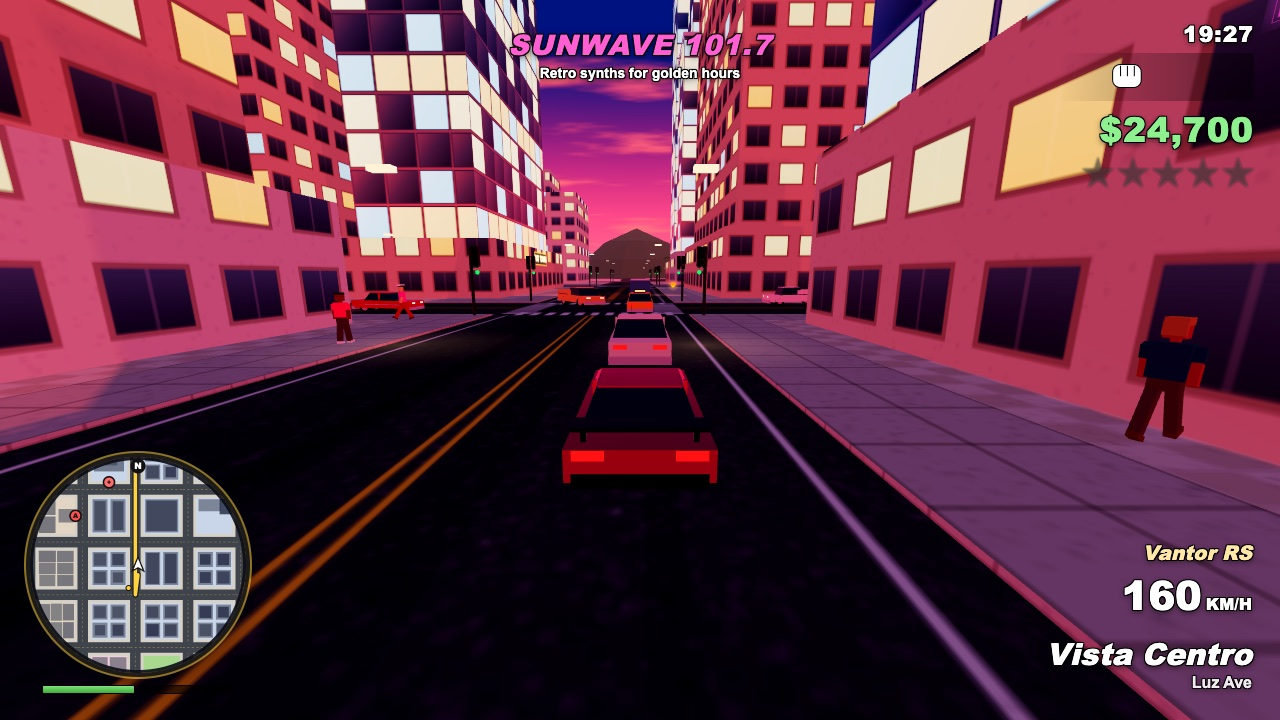
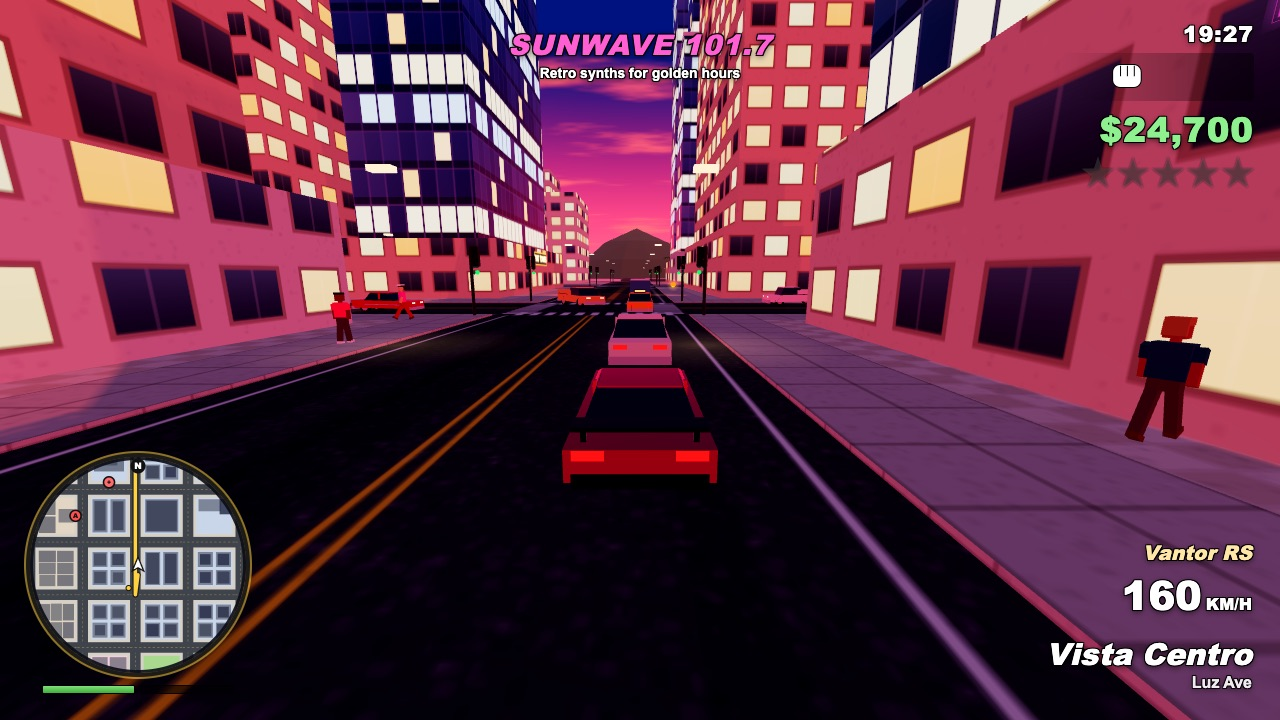
Polish Solara Bay visuals, audio test coverage and screenshots
Curtain-wall glass towers with lit floors at night, boats on the bay,
softer police searchlight, cheaper character shadows and distance culling,
HUD markup moved into ui/layout.js, the side-job/shop interaction fix,
an audio step in the self-test, and re-shot screenshots.

diff --git a/game/src/world/boats.js b/game/src/world/boats.js
@@ -1,0 +1,72 @@
+// Boats on the water: yachts, sailboats and a ferry moored or drifting around the pier, the
+// inlet and the harbour, bobbing and rolling on the swell.
+import * as THREE from 'three';
+import { WATER_LEVEL } from '../config.js';
+import { GeometryBuilder } from '../core/geometryBuilder.js';
+
+function yacht(b, hullColor, stripe) {
+  b.taperedBox(0, -0.6, 0, 3.2, 1.6, 11, 2.6, 9.5, hullColor, 0.6);
+  b.taperedBox(0, -0.6, 6.2, 3.2, 1.6, 1.6, 0.3, 0.3, hullColor, -0.2);
+  b.box(0, 0.4, 0, 3.25, 0.25, 10, stripe);
+  b.taperedBox(0, 1.0, -1, 2.4, 1.2, 4.5, 1.9, 3.6, '#f6f6f2');
+  b.box(0, 1.5, 0.9, 2.3, 0.5, 0.2, '#22313f');
+}
+
+function sailboat(b, hullColor, sailColor) {
+  b.taperedBox(0, -0.5, 0, 2.2, 1.2, 7, 1.8, 6, hullColor, 0.3);
+  b.taperedBox(0, -0.5, 3.9, 2.2, 1.2, 1, 0.2, 0.2, hullColor);
+  b.beam([0, 0.6, 0.6], [0, 11, 0.6], 0.09, 5, '#dddddd');
+  const rgb = b.setColor(sailColor);
+  b.tri([0.02, 1.2, 0.8], [0.02, 1.2, -2.8], [0.02, 10.6, 0.7], [0, 0], [1, 0], [0, 1], rgb);
+  b.tri([-0.02, 1.2, -2.8], [-0.02, 1.2, 0.8], [-0.02, 10.6, 0.7], [0, 0], [1, 0], [0, 1], rgb);
+  b.tri([0, 1.2, 1.0], [0, 9.0, 0.7], [0, 1.2, 3.6], [0, 0], [1, 0], [0, 1], rgb);
+  b.tri([0, 9.0, 0.7], [0, 1.2, 1.0], [0, 1.2, 3.6], [0, 0], [1, 0], [0, 1], rgb);
+}
+
+function ferry(b) {
+  b.taperedBox(0, -1.2, 0, 7, 3, 26, 6, 22, '#f2f2f2', 1);
+  b.box(0, 1.8, 0, 7.05, 0.5, 22, '#1f4e79');
+  b.box(0, 2.3, -2, 6, 2.6, 14, '#ffffff');
+  b.box(0, 3.4, -2, 6.05, 0.8, 13.6, '#22313f');
+  b.box(0, 4.9, 2, 3, 2.2, 3, '#ffcc33');
+}
+
+const FLEET = [
+  { kind: 'yacht', x: 420, z: -40, h: 0.3, a: '#ffffff', b: '#1f4e79' },
+  { kind: 'sail', x: 470, z: 110, h: 2.2, a: '#ffffff', b: '#fff6e6' },
+  { kind: 'sail', x: 520, z: -130, h: 1.1, a: '#264653', b: '#ffffff' },
+  { kind: 'yacht', x: 395, z: 85, h: 1.7, a: '#f4f1ea', b: '#c0392b' },
+  { kind: 'sail', x: 405, z: 190, h: -0.6, a: '#ffffff', b: '#ffb347' },
+  { kind: 'ferry', x: 560, z: 20, h: 1.4 },
+  { kind: 'yacht', x: -120, z: -245, h: 1.6, a: '#ffffff', b: '#2a9d8f' },
+  { kind: 'sail', x: 230, z: -248, h: -1.4, a: '#ffffff', b: '#ffffff' },
+  { kind: 'sail', x: -260, z: -238, h: 0.4, a: '#c0392b', b: '#ffffff' },
+  { kind: 'yacht', x: 120, z: 430, h: -1.2, a: '#ffffff', b: '#1f3550' },
+];
+
+export function createBoats(scene) {
+  const material = new THREE.MeshStandardMaterial({ vertexColors: true, roughness: 0.5, metalness: 0.1, side: THREE.DoubleSide });
+  const boats = FLEET.map((f, i) => {
+    const b = new GeometryBuilder();
+    if (f.kind === 'yacht') yacht(b, f.a, f.b);
+    else if (f.kind === 'sail') sailboat(b, f.a, f.b);
+    else ferry(b);
+    const mesh = new THREE.Mesh(b.build(), material);
+    mesh.castShadow = true;
+    mesh.position.set(f.x, WATER_LEVEL, f.z);
+    mesh.rotation.y = f.h;
+    scene.add(mesh);
+    return { mesh, phase: i * 1.7, drift: f.kind === 'ferry' ? 0 : 0.4, f };
+  });
+  return {
+    update(time) {
+      for (const boat of boats) {
+        const t = time + boat.phase;
+        boat.mesh.position.y = WATER_LEVEL + Math.sin(t * 0.9) * 0.18;
+        boat.mesh.rotation.z = Math.sin(t * 0.7) * 0.05;
+        boat.mesh.rotation.x = Math.sin(t * 0.55) * 0.03;
+        boat.mesh.position.x = boat.f.x + Math.sin(t * 0.05) * boat.drift * 10;
+      }
+    },
+  };
+}

diff --git a/game/src/world/textures.js b/game/src/world/textures.js
@@ -49,17 +49,21 @@ function facadePair(style) {
   };
   const map = canvasTexture(size, size, (ctx) => {
     if (style === 'glass') {
-      const g = ctx.createLinearGradient(0, 0, size, size);
-      g.addColorStop(0, '#9fc4dc'); g.addColorStop(0.5, '#6f9bbd'); g.addColorStop(1, '#4d7697');
+      // Curtain wall: 8 panes by 4 storeys, a sky reflection sweeping across, dark spandrels.
+      const g = ctx.createLinearGradient(0, 0, size * 0.7, size);
+      g.addColorStop(0, '#e4f2fb'); g.addColorStop(0.35, '#9cc6e0'); g.addColorStop(0.7, '#5f8fb4'); g.addColorStop(1, '#3f6d93');
       ctx.fillStyle = g; ctx.fillRect(0, 0, size, size);
-      drawWindows(ctx, (c, x, y, w, h) => {
-        const wg = c.createLinearGradient(x, y, x + w, y + h);
-        wg.addColorStop(0, '#d6ecf7'); wg.addColorStop(0.45, '#7fb0d0'); wg.addColorStop(1, '#3c6688');
-        c.fillStyle = wg; c.fillRect(x, y, w, h);
-      }, null, 3);
-      ctx.fillStyle = '#e8eef2';
-      for (let r = 0; r <= 4; r += 1) ctx.fillRect(0, r * 64 - 2, size, 4);
-      for (let c = 0; c <= 4; c += 1) ctx.fillRect(c * 64 - 1, 0, 2, size);
+      for (let r = 0; r < 4; r += 1) {
+        for (let c = 0; c < 8; c += 1) {
+          ctx.fillStyle = `rgba(${paintRng.chance(0.5) ? '255,255,255' : '20,40,70'},${paintRng.range(0.02, 0.12)})`;
+          ctx.fillRect(c * 32, r * 64, 32, 64);
+        }
+      }
+      ctx.fillStyle = 'rgba(30,45,60,0.55)';
+      for (let r = 0; r < 4; r += 1) ctx.fillRect(0, r * 64 + 50, size, 14);
+      ctx.fillStyle = 'rgba(235,242,248,0.85)';
+      for (let r = 0; r <= 4; r += 1) ctx.fillRect(0, r * 64 - 1, size, 2);
+      for (let c = 0; c <= 8; c += 1) ctx.fillRect(c * 32 - 1, 0, 2, size);
     } else if (style === 'office') {
       ctx.fillStyle = '#ece6da'; ctx.fillRect(0, 0, size, size);
       noise(ctx, size, size, 900, 0.05);
@@ -106,7 +110,19 @@ function facadePair(style) {
       for (let c = 0; c < 4; c += 1) if (lit[c]) ctx.fillRect(c * 64 + 10, 14, 44, 10);
       return;
     }
-    const inset = { glass: 3, office: 12, stucco: 16, house: 18 }[style];
+    if (style === 'glass') {
+      for (let r = 0; r < 4; r += 1) {
+        const floorLit = paintRng.chance(0.55);
+        const tone = paintRng.pick(['#ffe2b0', '#fff4d8', '#cfe8ff', '#ffd08a']);
+        for (let c = 0; c < 8; c += 1) {
+          if (!(floorLit ? paintRng.chance(0.85) : paintRng.chance(0.12))) continue;
+          ctx.fillStyle = tone;
+          ctx.fillRect(c * 32 + 2, r * 64 + 3, 28, 46);
+        }
+      }
+      return;
+    }
+    const inset = { office: 12, stucco: 16, house: 18 }[style];
     const cell = size / 4;
     for (let r = 0; r < 4; r += 1) {
       for (let c = 0; c < 4; c += 1) {

diff --git a/game/src/shots/shotScenes.js b/game/src/shots/shotScenes.js
@@ -74,6 +74,7 @@ const SCENES = {
   },
 
   drive(game, tools) {
+    if (new URLSearchParams(location.search).get('v') === '2') { SCENES.driveDeco(game, tools); return; }
     prepare(game, 19.45, 2);
     game.audio.radio.setStation(0);
     const p = game.player;
@@ -92,6 +93,28 @@ const SCENES = {
     run(game, tools, 2.2, ['KeyW']);
     game.hud.radioToast(game.audio.radio.stations[0]);
     game.gps.setTarget(70, -280, '#ffd23f');
+    run(game, tools, 0.3, ['KeyW']);
+  },
+
+  driveDeco(game, tools) {
+    prepare(game, 19.35, 2);
+    game.audio.radio.setStation(0);
+    const p = game.player;
+    const car = game.vehicles.spawn('vantor', 250, 66.5, -Math.PI / 2, { color: '#e0115f' });
+    p.teleport(car.x, car.z + 2);
+    p.enterVehicle(car);
+    car.vx = -17; car.vz = 0;
+    game.camera.alignBehind(-Math.PI / 2, 0.16);
+    trafficCar(game, 'mirela', 192, 66.5, -Math.PI / 2, 9, '#f1faee');
+    trafficCar(game, 'tessaro', 150, 66.5, -Math.PI / 2, 8, '#457b9d');
+    trafficCar(game, 'solcab', 175, 73.5, Math.PI / 2, 10);
+    trafficCar(game, 'haulden', 120, 73.5, Math.PI / 2, 10, '#e9c46a');
+    trafficCar(game, 'cruzer', 228, 73.5, Math.PI / 2, 9);
+    trafficCar(game, 'mirela', 140, 40, 0, 8, '#c8102e');
+    populate(game, 180, 70, 6, 18, 60, 150);
+    run(game, tools, 2.2, ['KeyW']);
+    game.hud.radioToast(game.audio.radio.stations[0]);
+    game.gps.setTarget(-105, 92, '#3ef2ff');
     run(game, tools, 0.3, ['KeyW']);
   },
 

diff --git a/game/src/world/cityGen.js b/game/src/world/cityGen.js
@@ -17,6 +17,7 @@ import { buildProps } from './props.js';
 import { createWater } from './water.js';
 import { createSky } from './sky.js';
 import { createDayNight } from './dayNight.js';
+import { createBoats } from './boats.js';
 
 const DISTRICT_BUILDERS = {
   downtown: districts.buildDowntownBlock,
@@ -93,6 +94,7 @@ export function buildCity(scene, renderer) {
   const water = createWater(scene);
   const sky = createSky(scene);
   const dayNight = createDayNight(scene, renderer, sky, water, materials);
+  const boats = createBoats(scene);
 
   // The lighthouse's sweeping beam, visible after dark.
   const beamMaterial = new THREE.MeshBasicMaterial({ color: '#fff2c0', transparent: true, opacity: 0, blending: THREE.AdditiveBlending, depthWrite: false, side: THREE.DoubleSide, toneMapped: false });
@@ -119,6 +121,7 @@ export function buildCity(scene, renderer) {
       water.update(clock, camera);
       sky.update(clock, camera);
       wheel.update(clock);
+      boats.update(clock);
       beam.rotation.y = clock * 0.6;
       beamMaterial.opacity = night * 0.18;
     },

diff --git a/game/src/shots/selfTest.js b/game/src/shots/selfTest.js
@@ -29,6 +29,19 @@ export function runSelfTest(game, { simulate, input, session, interactions }, re
   };
   const p = game.player;
 
+  step('audio engine', () => {
+    game.audio.unlock();
+    if (!game.audio.ctx) throw new Error('no AudioContext');
+    const fx = game.audio.sfx;
+    fx.gunshot('pistol', p.x + 5, p.z); fx.gunshot('smg'); fx.gunshot('shotgun', p.x, p.z + 3);
+    fx.explosion(p.x, p.z); fx.crash(0.8, p.x, p.z); fx.punch(true, p.x, p.z); fx.horn(1); fx.horn(0.9, p.x, p.z);
+    fx.scream(p.x, p.z); fx.pickup(true); fx.collect(); fx.checkpoint(); fx.missionStart(); fx.missionPassed();
+    fx.missionFailed(); fx.wasted(); fx.click(); fx.reload(); fx.door(); fx.respray(); fx.staticBurst(); fx.uiSelect();
+    for (let i = 0; i < 6; i += 1) game.audio.radio.next();
+    game.audio.setSiren(0.8);
+    game.audio.setHelicopter(0.5);
+    game.audio.update(0.016, false);
+  });
   step('new game', () => { session.newGame(); run(1.5); });
   step('steal a car', () => {
     run(2);

diff --git a/game/src/characters/human.js b/game/src/characters/human.js
@@ -149,8 +149,10 @@ export class Human {
   /** Poses and places the model; called after the owner's AI and physics. */
   syncMesh(dt) {
     const g = this.model.group;
-    g.visible = !this.inVehicle || (this.inVehicle.type.bike ?? false);
-    if (this.inVehicle) return;
+    const cam = this.game.camera?.position;
+    const far = cam && Math.abs(cam.x - this.x) + Math.abs(cam.z - this.z) > 160;
+    g.visible = !far && (!this.inVehicle || (this.inVehicle.type.bike ?? false));
+    if (this.inVehicle || far) return;
     g.position.set(this.x, this.y, this.z);
     g.rotation.y = this.heading;
     const speed = this.speed;

diff --git a/game/src/world/buildings.js b/game/src/world/buildings.js
@@ -6,7 +6,7 @@ import { awning, facadeBox, NEON_SIGNS, rooftopBillboard, streetNormal, wallSign
 
 const KERB = 0.12;
 const LOT = BLOCK_SIZE - GRID.sidewalk * 2; // 48 m buildable square
-const GLASS_TINTS = ['#bfe3ff', '#a9dcec', '#d6e2ff', '#bdf2e6', '#ffe1c4', '#e8d4ff'];
+const GLASS_TINTS = ['#bfe3ff', '#a9dcec', '#d6e2ff', '#a8e8d8', '#ffd9b0', '#9fb8e0', '#e0c49c', '#c8f0ff'];
 const OFFICE_TINTS = ['#ffffff', '#f4ecdf', '#e9eef3', '#f7e3d0'];
 const PASTELS = ['#ffc8d8', '#bff3e0', '#fff0bf', '#c8e6ff', '#e5d1ff', '#ffd8b8', '#d2f7c4', '#ffffff'];
 const ROOF_TILES = ['#c4623f', '#b5553a', '#7d8a96', '#d48a5c'];

diff --git a/game/src/characters/humanModel.js b/game/src/characters/humanModel.js
@@ -17,7 +17,7 @@ function part(parent, color, w, h, d, x, y, z) {
   const mesh = new THREE.Mesh(geo.box, mat(color));
   mesh.scale.set(w, h, d);
   mesh.position.set(x, y, z);
-  mesh.castShadow = true;
+  mesh.castShadow = w * h > 0.05; // small parts (arms, hair, shoes) skip the shadow pass
   parent.add(mesh);
   return mesh;
 }
